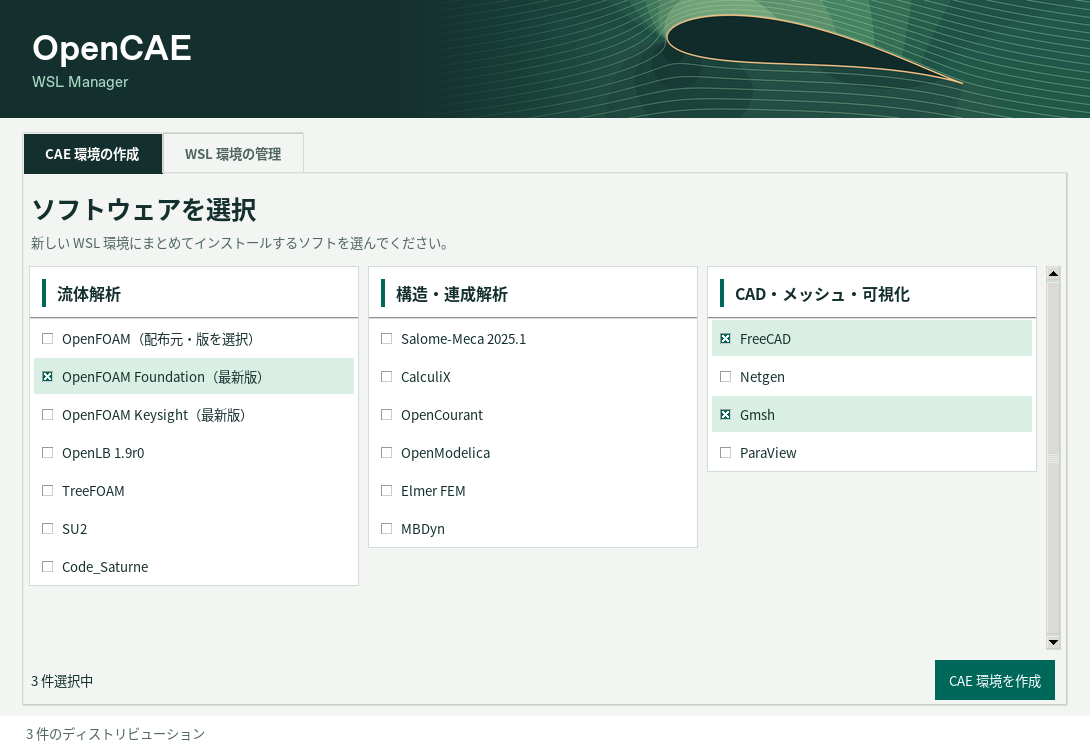
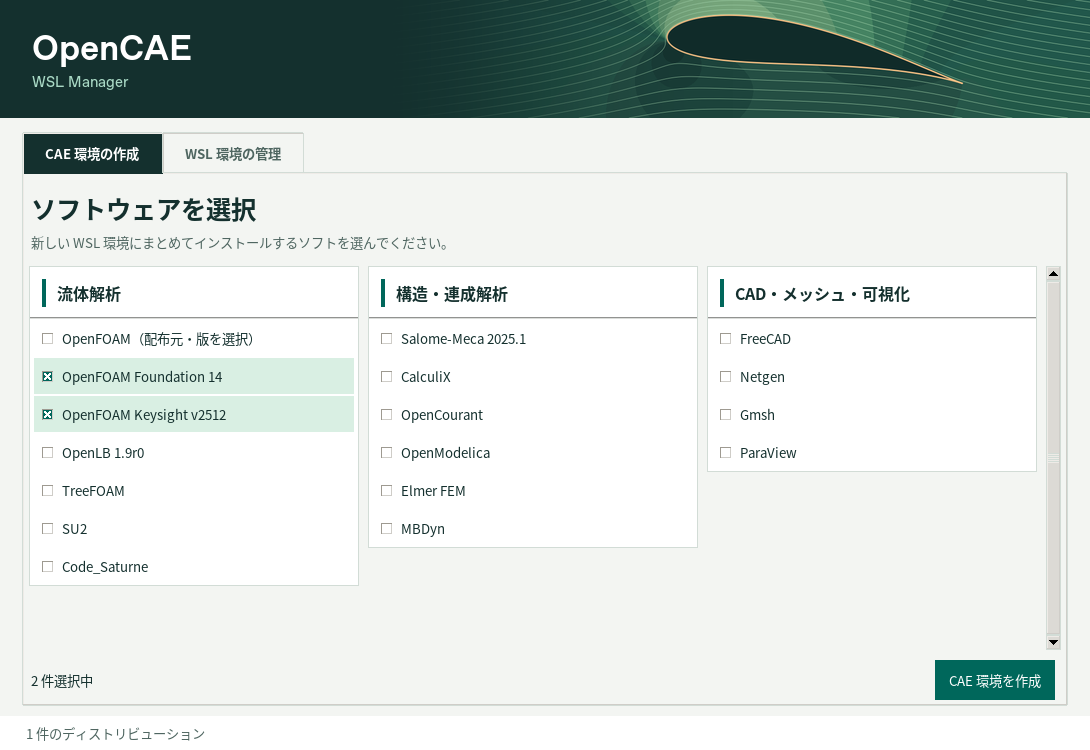
Show and install the selected OpenFOAM release number

Changed region(s): [[0.0312, 0.4907, 0.3431, 0.5827], [0.655, 0.5213, 0.967, 0.5827], [0.655, 0.4293, 0.967, 0.4907]]

diff --git a/wsl_manager.py b/wsl_manager.py
@@ -1,5 +1,6 @@
 """Windows Subsystem for Linux のローカル管理画面。"""
 import hashlib
+import http.client
 import os
 import platform
 import urllib.request
@@ -110,10 +111,43 @@ class CaeProfile:
 OPENFOAM_WIZARD = "OpenFOAM（配布元・版を選択）"
 
 
+@dataclass(frozen=True)
+class OpenFoamEdition:
+    repository: str
+    package_pattern: str
+    bundled_version: str
+    prefix: str = ""
+
+
+OPENFOAM_EDITIONS = {
+    "OpenFOAM Foundation": OpenFoamEdition("https://dl.openfoam.org/ubuntu", r"openfoam([1-9][0-9]?)", "14"),
+    "OpenFOAM Keysight": OpenFoamEdition("https://dl.openfoam.com/repos/deb", r"openfoam([0-9]{2}(?:06|12))-default", "2512", "v"),
+}
+
+
+def fetch_openfoam_versions(updates):
+    for label, edition in OPENFOAM_EDITIONS.items():
+        url = edition.repository + "/dists/noble/main/binary-amd64/Packages"
+        request = urllib.request.Request(url, headers={"User-Agent": "OpenCAE-WSL-Manager/1"})
+        try:
+            with urllib.request.urlopen(request, timeout=8) as response:
+                index = response.read().decode().replace("\r\n", "\n")
+        except (OSError, http.client.HTTPException, UnicodeError):
+            continue
+        releases = set()
+        for record in index.split("\n\n"):
+            package = re.search("^Package: " + edition.package_pattern + "$", record, re.M)
+            version = re.search(r"^Version: (\S+)$", record, re.M)
+            if package and version and "~" not in version[1]:
+                releases.add(package[1])
+        if releases:
+            updates.put((label, max(releases, key=int)))
+
+
 CAE_PROFILES = {
-    "OpenFOAM Foundation（最新版）": CaeProfile("OpenFOAM-Foundation", "openfoam_foundation_setup.sh", category="流体解析",
+    "OpenFOAM Foundation": CaeProfile("OpenFOAM-Foundation", "openfoam_foundation_setup.sh", category="流体解析",
                                             resources=("openfoam_latest.sh",)),
-    "OpenFOAM Keysight（最新版）": CaeProfile("OpenFOAM-Keysight", "openfoam_keysight_setup.sh", category="流体解析",
+    "OpenFOAM Keysight": CaeProfile("OpenFOAM-Keysight", "openfoam_keysight_setup.sh", category="流体解析",
                                          resources=("openfoam_latest.sh",)),
     "Salome-Meca 2025.1": CaeProfile("Salome-Meca-2025", "salome_meca_setup.sh", category="構造・連成解析", sif_source=True),
     "OpenLB 1.9r0": CaeProfile("OpenLB-1.9r0", "openlb_setup.sh", category="流体解析"),
@@ -213,7 +247,7 @@ def discard_failed_environment(name, stage, error):
     raise RuntimeError(f"「{name}」の{stage}で失敗したため、この環境を削除しました。\n{error}") from error
 
 
-def create_cae(selected, name, folder, progress, user, password, source=""):
+def create_cae(selected, name, folder, progress, user, password, source="", *, openfoam_versions=None):
     if not selected:
         raise ValueError("ソフトを1つ以上選んでください。")
     wizard = OPENFOAM_WIZARD in selected
@@ -226,6 +260,13 @@ def create_cae(selected, name, folder, progress, user, password, source=""):
     resources = {filename for profile in profiles for filename in profile.resources}
     scripts = {filename: (script_dir / filename).read_text(encoding="utf-8").encode()
                for filename in (*steps, *resources, "resume.sh")}
+    for label in selected:
+        if label in OPENFOAM_EDITIONS:
+            edition = OPENFOAM_EDITIONS[label]
+            version = (openfoam_versions or {}).get(label, edition.bundled_version)
+            script = CAE_PROFILES[label].setup_script
+            scripts[script.replace("_setup.sh", ".version")] = (version + "\n").encode("ascii")
+            steps[script] = f"{label} {edition.prefix}{version}"
     image = salome_image.prepare_image(source, progress) if any(p.sif_source for p in profiles) else None
     if wizard:
         progress("OpenFOAM の配布元と版をコンソールで選択してください")
@@ -314,6 +355,9 @@ class Manager:
         self.rows = []
         self.buttons = []
         self.selected_buttons = []
+        self.release_updates = queue.SimpleQueue()
+        self.available_versions = {label: e.bundled_version for label, e in OPENFOAM_EDITIONS.items()}
+        self.displayed_versions = self.available_versions.copy()
         self.software = {label: tk.BooleanVar(root) for label in (OPENFOAM_WIZARD, *CAE_PROFILES)}
         self.status = tk.StringVar(root)
         self.choice_count = tk.StringVar(root)
@@ -345,6 +389,12 @@ class Manager:
         root.protocol("WM_DELETE_WINDOW", self.close)
         root.after(80, self.poll)
         self.refresh()
+        threading.Thread(target=fetch_openfoam_versions, args=(self.release_updates,), daemon=True).start()
+
+    def software_label(self, label):
+        if label in OPENFOAM_EDITIONS:
+            return f"{label} {OPENFOAM_EDITIONS[label].prefix}{self.displayed_versions[label]}"
+        return label
 
     def build_catalog(self, page):
         ttk.Label(page, text="ソフトウェアを選択", style="Title.TLabel").pack(anchor="w")
@@ -375,7 +425,7 @@ class Manager:
                 tk.Label(bar, text=category, bg=theme.WHITE, fg=theme.INK,
                          font=(self.family, 12, "bold")).pack(side="left")
                 ttk.Separator(card).pack(fill="x")
-            check = ttk.Checkbutton(cards[category], text=label, variable=variable,
+            check = ttk.Checkbutton(cards[category], text=self.software_label(label), variable=variable,
                                     style="Catalog.TCheckbutton", command=self.controls)
             check.pack(anchor="w", fill="x", padx=4, pady=1)
             self.checks.append(check)
@@ -475,7 +525,10 @@ class Manager:
     def controls(self):
         count = sum(var.get() for var in self.software.values())
         self.choice_count.set(f"{count} 件選択中")
-        for widget in self.checks:
+        for label, widget in zip(self.software, self.checks):
+            if label in self.available_versions and not self.software[label].get():
+                self.displayed_versions[label] = self.available_versions[label]
+                widget.configure(text=self.software_label(label))
             widget.state(["disabled" if self.busy else "!disabled"])
         for button in self.buttons:
             disabled = self.busy or (button in self.selected_buttons and not self.selected())
@@ -501,6 +554,10 @@ class Manager:
         threading.Thread(target=worker, daemon=True).start()
 
     def poll(self):
+        while not self.release_updates.empty():
+            label, version = self.release_updates.get()
+            self.available_versions[label] = version
+            self.controls()
         while not self.progress.empty():
             self.status.set(self.progress.get())
         try:
@@ -602,6 +659,7 @@ class Manager:
         if not selected:
             messagebox.showinfo("CAE 環境を作成", "ソフトを1つ以上選んでください。", parent=self.root)
             return
+        versions = self.displayed_versions.copy()
         wizard = OPENFOAM_WIZARD in selected
         fields = []
         if not wizard:
@@ -620,9 +678,9 @@ class Manager:
             validate_account(user, password, confirmation)
             self.run("CAE 環境の作成",
                      lambda: create_cae(selected, name, folder, self.progress.put, user, password,
-                                        source[0] if source else ""), self.refresh)
+                                        source[0] if source else "", openfoam_versions=versions), self.refresh)
 
-        prompt = "同じ WSL 環境に導入します。 " + "、".join(selected)
+        prompt = "同じ WSL 環境に導入します。 " + "、".join(self.software_label(label) for label in selected)
         if wizard:
             prompt += "。続くコンソールで OpenFOAM の配布元と版を選択します。"
         self.form("CAE 環境を作成", fields, submit, prompt)

diff --git a/README.md b/README.md
@@ -37,8 +37,8 @@ x64 版 Windows、WSL 2、インターネット接続、環境用の空き容量
 
 | ソフト | 標準の登録名 | 再開に使うスクリプト |
 | --- | --- | --- |
-| OpenFOAM Foundation（最新版） | `OpenFOAM-Foundation` | `openfoam_foundation_setup.sh` |
-| OpenFOAM Keysight（最新版） | `OpenFOAM-Keysight` | `openfoam_keysight_setup.sh` |
+| OpenFOAM Foundation 14 | `OpenFOAM-Foundation` | `openfoam_foundation_setup.sh` |
+| OpenFOAM Keysight v2512 | `OpenFOAM-Keysight` | `openfoam_keysight_setup.sh` |
 | OpenLB 1.9r0 | `OpenLB-1.9r0` | `openlb_setup.sh` |
 | Salome-Meca 2025.1 | `Salome-Meca-2025` | `salome_meca_setup.sh` |
 | CalculiX | `CalculiX` | `calculix_setup.sh` |
@@ -63,7 +63,7 @@ x64 版 Windows、WSL 2、インターネット接続、環境用の空き容量
 3. 続行すると Ubuntu 24.04 LTS の WSL 2 を作成します。登録名が重複すると `-2`、`-3` と自動採番されます。設定したユーザーで sudo を使えます。
 4. OpenFOAM の検証が完了すると、マネージャーが同じ登録名の環境に残りのソフトを自動で導入します。
 
-保存場所は WSL が管理します。自動で最新版を入れるには、メイン画面の **OpenFOAM Foundation（最新版）** または **OpenFOAM Keysight（最新版）** にチェックを入れます。両方を選ぶと同じ環境に導入し、通常のターミナルでは先に設定した版を読み込みます。[対話インストーラーの詳細](openfoam-installer/README.md)
+保存場所は WSL が管理します。チェック欄には、起動時に確認した正式版の番号を表示します（例 **OpenFOAM Foundation 14**、**OpenFOAM Keysight v2512**）。公式一覧を取得できない場合は同梱の版番号を表示します。選択した番号の版をインストールします。両方を選ぶと同じ環境に導入し、通常のターミナルでは先に設定した版を読み込みます。[対話インストーラーの詳細](openfoam-installer/README.md)
 
 ### Salome-Meca の取得と起動
 

diff --git a/SPECIFICATION.md b/SPECIFICATION.md
@@ -37,7 +37,7 @@ CAE 作成と tar インポートで保存先が空欄の場合は、現行 WSL 
 
 対象は x64 の WSL 2。入力は未使用の登録名、任意の保存先、Linux ユーザー名、パスワードとその確認。作成処理は Ubuntu Base 24.04.5 amd64 の tar.gz を一時ディレクトリに取得し、配布元掲載値と SHA-256 が一致した場合に `wsl --import ... --version 2` を実行する。[Ubuntu Base 配布元](https://cdimage.ubuntu.com/ubuntu-base/releases/24.04/release/)
 
-Foundation と Keysight の最新版を別々のチェック項目として提供する。各配布元の署名を検証した Ubuntu noble の amd64 パッケージ一覧から正式版の最大番号を求め、Foundation は openfoam〈番号〉、Keysight は openfoam〈年月〉-default を導入する。選択したユーザーで版番号と blockMesh を確認する。TreeFOAM 用の Foundation 12 は固定する。
+起動時に各配布元の Ubuntu noble amd64 パッケージ一覧から正式版の最大番号を取得し、チェック欄に Foundation は番号、Keysight は v 付きの年月を表示する。取得前と通信失敗時には同梱の確認済み番号を使う。チェックした版番号を作成画面に引き継ぎ、署名検証済みの APT 一覧にその版があることを確認して導入する。選択したユーザーで版番号と blockMesh を確認する。TreeFOAM 用の Foundation 12 は固定する。
 
 Windows 上での新規作成からソルバー起動までの通し試験は未実施。
 
